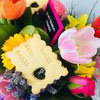
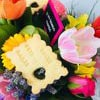
compress asset img

diff --git a/gourmandises/src/app/admin/real-edit/real-edit.component.ts b/gourmandises/src/app/admin/real-edit/real-edit.component.ts
@@ -391,7 +391,7 @@ export class RealEditComponent implements OnInit, OnDestroy {
               finalize(() => {
                 this.downloadURL = fileRef.getDownloadURL();
                 this.downloadURL.subscribe(url => {
-                  
+
                   this.gallery.date = this.real.date;
                   this.gallery.principale = false;
                   this.gallery.newsLink = this.id;
@@ -423,7 +423,7 @@ export class RealEditComponent implements OnInit, OnDestroy {
       if (this.primaryFile === undefined && this.galleryFiles.length === 0) {
         this.realService.editReal(this.id, this.real as Real[]);
       }
-      // this.router.navigate(['/']);
+      this.router.navigate(['/real/' + this.id]);
     } else {
       // Show message error - Fill form fully
       this.flashService.show(
